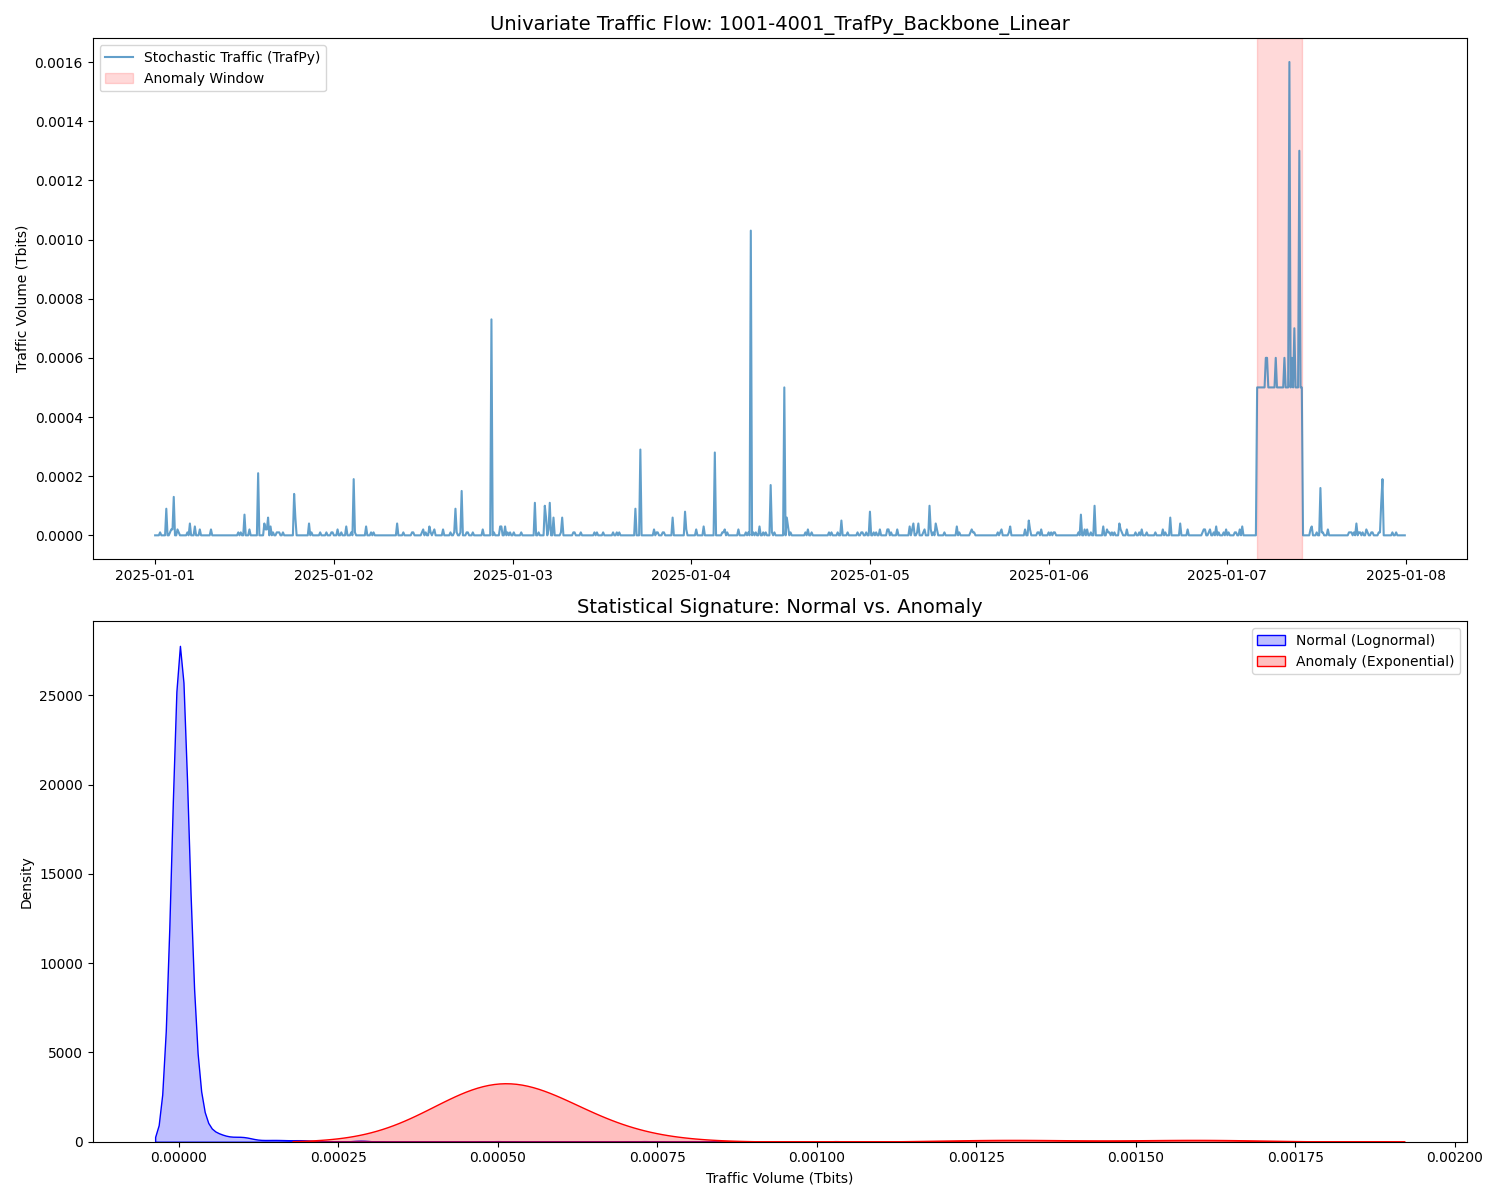
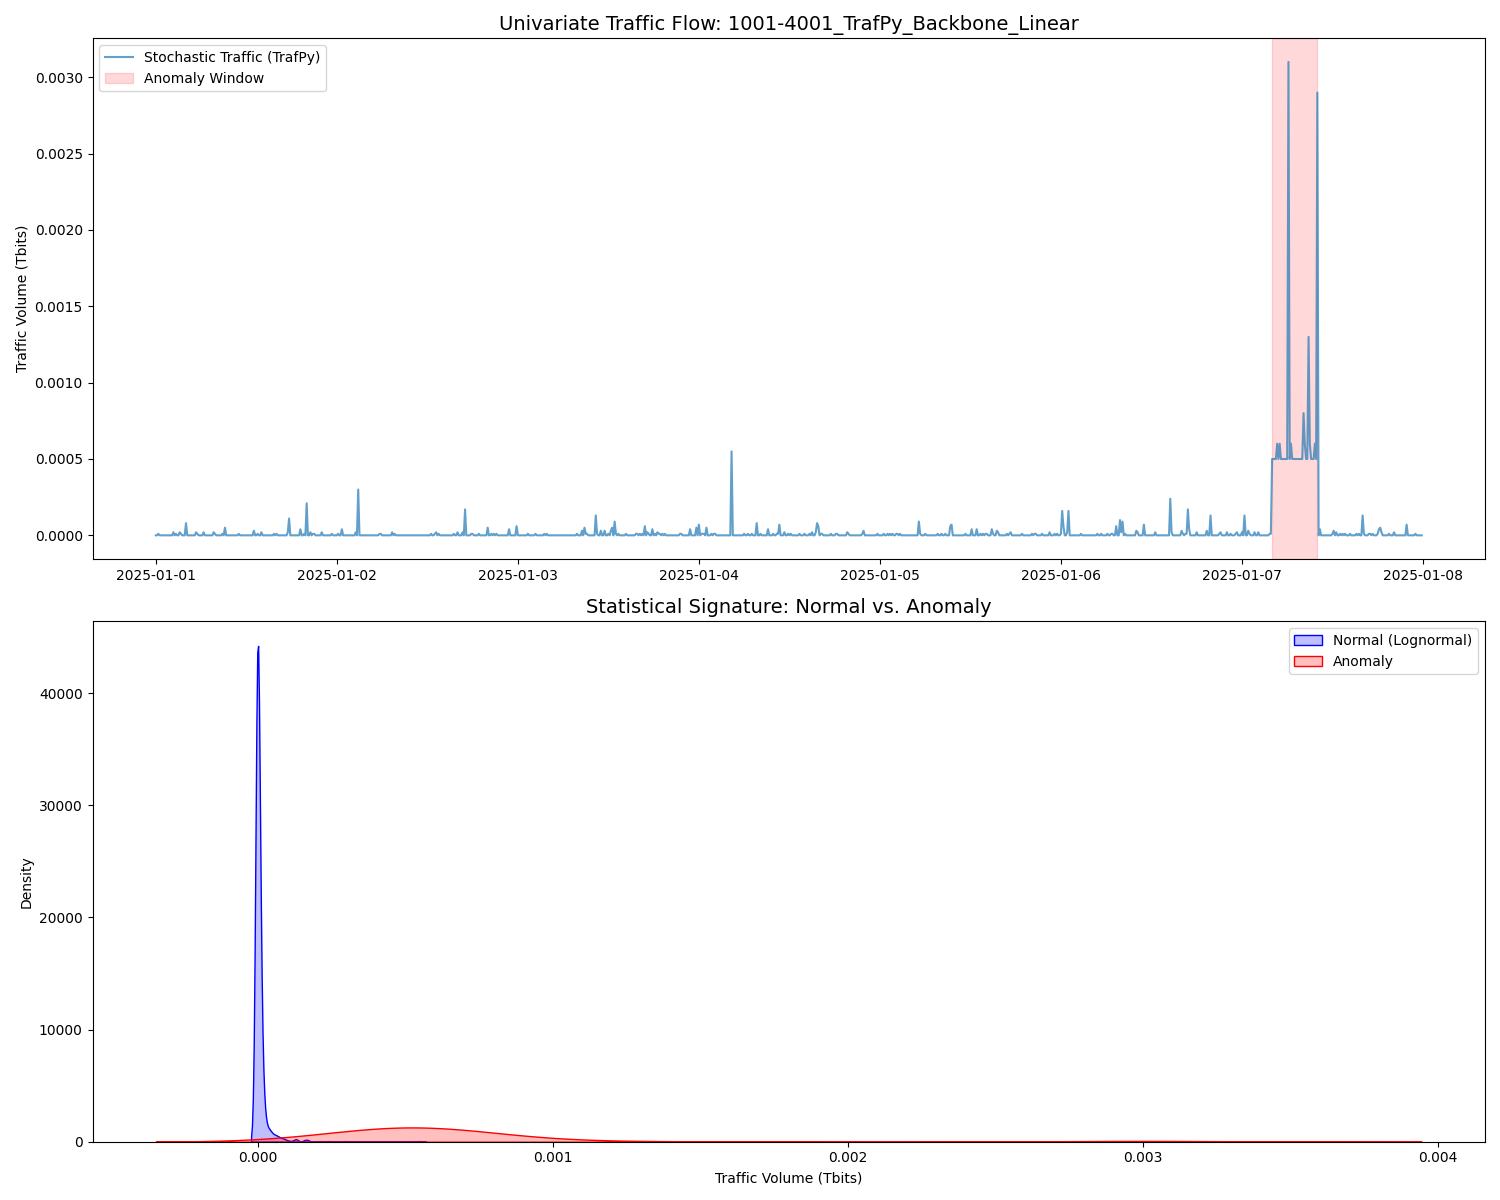
1

diff --git a/trafpy/visualize.py b/trafpy/visualize.py
@@ -1,57 +1,43 @@
 import pandas as pd
 import matplotlib.pyplot as plt
-import seaborn as sns
 import numpy as np
 
 def visualize_stochastic_traffic(csv_file):
     df = pd.read_csv(csv_file)
     df['timestamp'] = pd.to_datetime(df['timestamp'])
-    
+
     # Select the first flow that actually contains anomalies
     anomalous_flows = df[df['is_anomaly'] == True]['flow_key_id'].unique()
     if len(anomalous_flows) == 0:
         print("Error: No anomalies found in the dataset. Check your generation script.")
         return
-        
+
     flow_id = anomalous_flows[0]
     flow_data = df[df['flow_key_id'] == flow_id]
-    
-    fig, (ax1, ax2) = plt.subplots(2, 1, figsize=(15, 12), gridspec_kw={'height_ratios': [1, 1]})
-    
+
+    # Change to 1 row, 1 column and reduce height for a single panel
+    fig, ax1 = plt.subplots(1, 1, figsize=(15, 7))
+
     # --- PANEL 1: Time Series ---
-    ax1.plot(flow_data['timestamp'], flow_data['traffic_volume_Tbits'], 
+    ax1.plot(flow_data['timestamp'], flow_data['traffic_volume_Tbits'],
              label='Stochastic Traffic (TrafPy)', color='#1f77b4', alpha=0.7)
-    
+
     anomalies = flow_data[flow_data['is_anomaly'] == True]
-    ax1.axvspan(anomalies['timestamp'].min(), anomalies['timestamp'].max(), 
-                color='red', alpha=0.15, label='Anomaly Window')
+    if not anomalies.empty:
+        ax1.axvspan(anomalies['timestamp'].min(), anomalies['timestamp'].max(),
+                    color='red', alpha=0.15, label='Anomaly Window')
 
-    ax1.set_title(f"Univariate Traffic Flow: {flow_id}", fontsize=14)
+    ax1.set_title(f"Traffic Flow: {flow_id}", fontsize=14)
     ax1.set_ylabel("Traffic Volume (Tbits)")
+    ax1.set_xlabel("Timestamp")
     ax1.legend()
-
-    # --- PANEL 2: Distribution Comparison ---
-    normal_vol = flow_data[flow_data['is_anomaly'] == False]['traffic_volume_Tbits']
-    anomaly_vol = flow_data[flow_data['is_anomaly'] == True]['traffic_volume_Tbits']
-    
-    # Plot Normal Distribution
-    sns.kdeplot(normal_vol, ax=ax2, fill=True, color='blue', label='Normal (Lognormal)')
-    
-    # Plot Anomaly with Variance Check
-    if anomaly_vol.var() > 0:
-        sns.kdeplot(anomaly_vol, ax=ax2, fill=True, color='red', label='Anomaly (Exponential)')
-    else:
-        # Fallback to histogram if variance is zero (all values identical)
-        ax2.hist(anomaly_vol, bins=5, alpha=0.5, color='red', label='Anomaly (Fixed Magnitude)', density=True)
-    
-    ax2.set_title("Statistical Signature: Normal vs. Anomaly", fontsize=14)
-    ax2.set_xlabel("Traffic Volume (Tbits)")
-    ax2.legend()
+    ax1.grid(True, linestyle=':', alpha=0.6)
 
     plt.tight_layout()
-    plt.savefig('trafpy_visualization.png')
+    plt.savefig('trafpy_visualization_single.png')
     print("Plot saved as trafpy_visualization.png")
     plt.show()
 
 if __name__ == "__main__":
+    # Ensure this path matches your current file location
     visualize_stochastic_traffic('trafpy_master_univariate_data.csv')
